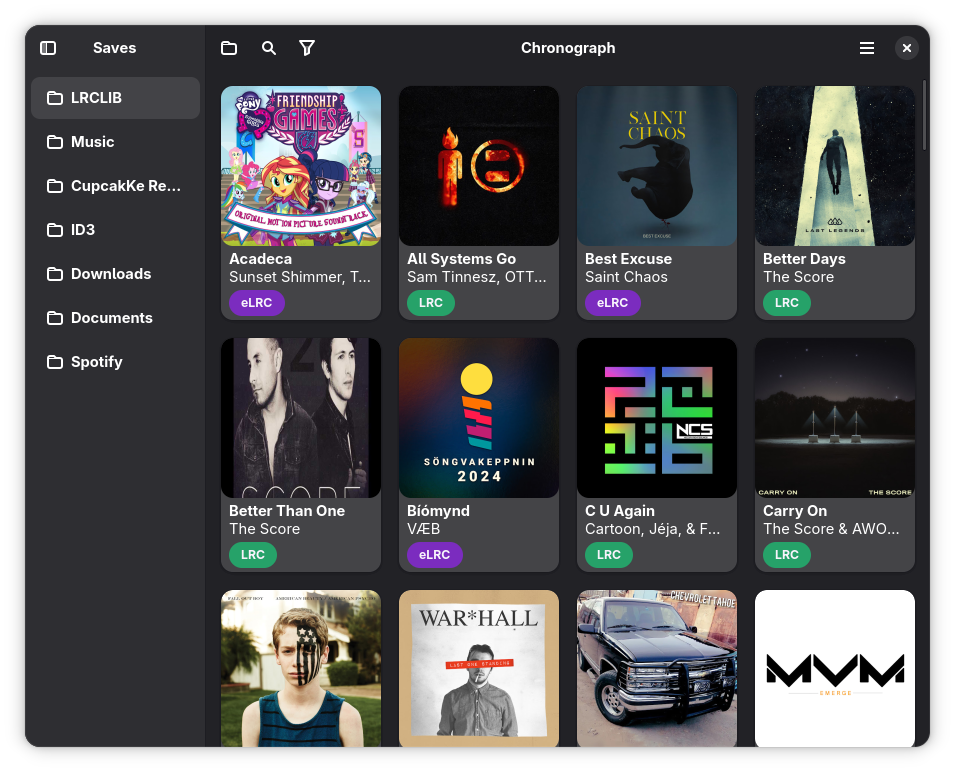
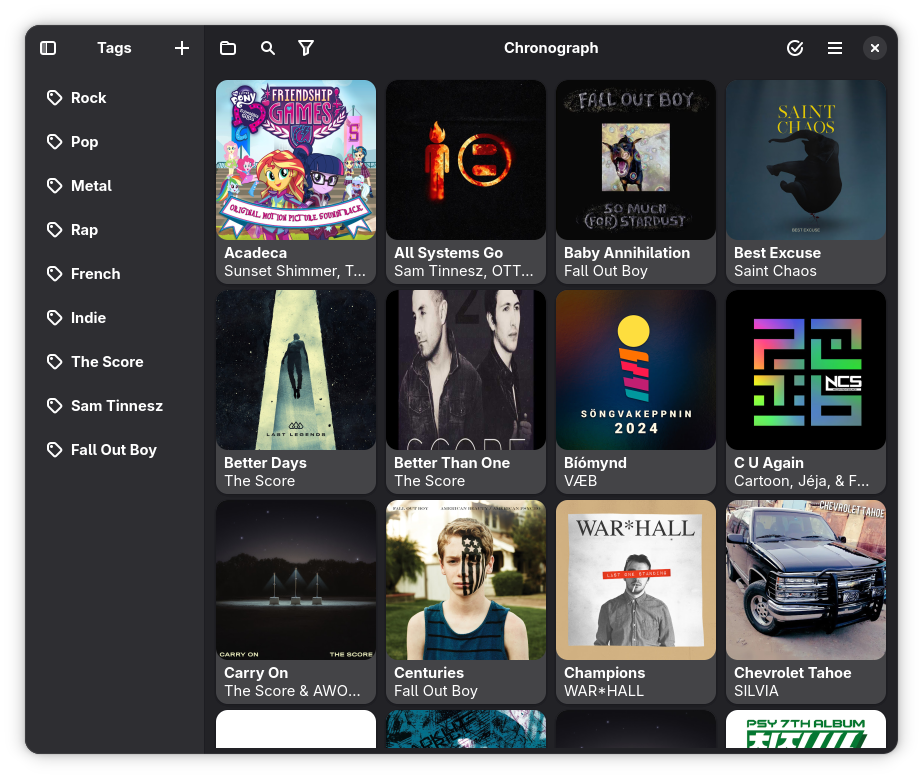
chore: bump version to 49

diff --git a/docs/CHANGELOG.md b/docs/CHANGELOG.md
@@ -1,12 +1,21 @@
-## 49-rc2
+## 49
 
+<p>New Library approach: Previously, Chronograph has manipulated different
+directories user stores files in. Now we move from this approach to new Library.
+You select a folder in which you want to create a new library, then import files
+in it, and Chronograph then uses this Library and its files.</p>
 <p>New Chronograph's own lyric format Chronie. Its main goal to be compatible with every
 other format Chronograph supports. Since barely all formats use Line-by-line or
 Word-by-word syncing and either only start or both start and end timestamps, Chronie
 combines all these approaches and store ALL of them simultaniously. Chronie can be
 converted to any lyric format and then exported, at the same time, it is exportable
 itself.</p>
-
+<p>Since most of the users, I guess would only use one library, it has tags you
+can assign to a track in a Library. Sidebar, which previously stored saved
+locations (directories) now stores tags and allow fast filtering among them.</p>
+<p>These are removed: List View mode, all files related settings.</p>
+<p>Don't forget to check Preferences after the update, since many changes were
+made to the app schema</p>
 <p>New features</p>
 <ul>
   <li>Ability to sort by Title, Artist and Album both A-Z and Z-A</li>
@@ -14,29 +23,9 @@ itself.</p>
 </ul>
 <p>Bug fixes</p>
 <ul>
-  <li>Exporting to file now always uses .lrc suffix</li>
   <li>File's default filename now built as {artist} - {title}.lrc</li>
+  <li>Exporting to file now always uses .lrc suffix</li>
 </ul>
-<p>Miscellaneous</p>
-<ul>
-  <li>Removed deprecated and unused preferences</li>
-</ul>
-
-## 49-rc1
-
-<p>New Library approach: Previously, Chronograph has manipulated different
-  directories user stores files in. Now we move from this approach to new Library.
-  You select a folder in which you want to create a new library, then import files
-  in it, and Chronograph then uses this Library and its files. All lyrics are now
-  storing in database, so it's now easier to implement new lyric formats such
-  as TTML, SRT, ASS, since we now don't encounter numerous interfere of lyric
-  files (eLRC uses the same format as LRC).</p>
-<p>Since most of the users, I guess would only use one library, it has tags you can
-  assign to a track in a Library. Sidebar, which previously stored saved locations
-  (directories) now stores tags and allow fast filtering among them.</p>
-<p>These are removed: List View mode, all files related settings.</p>
-<p>Don't forget to check Preferences after update, since many changes were made to the app
-  schema</p>
 
 ## 5.3.2
 
